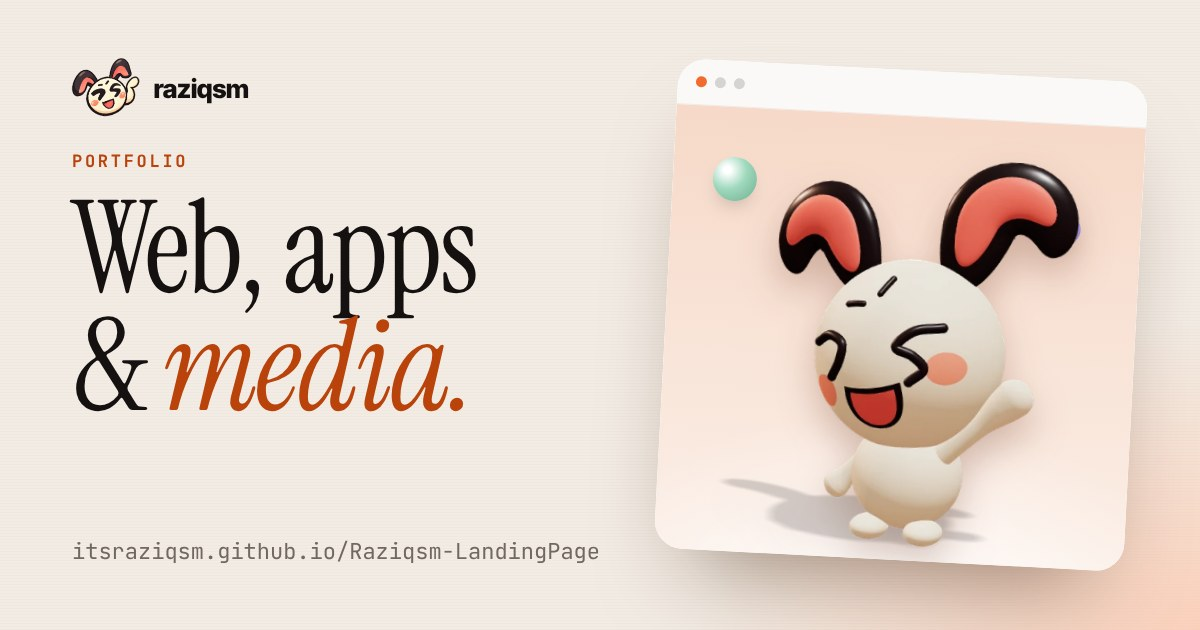
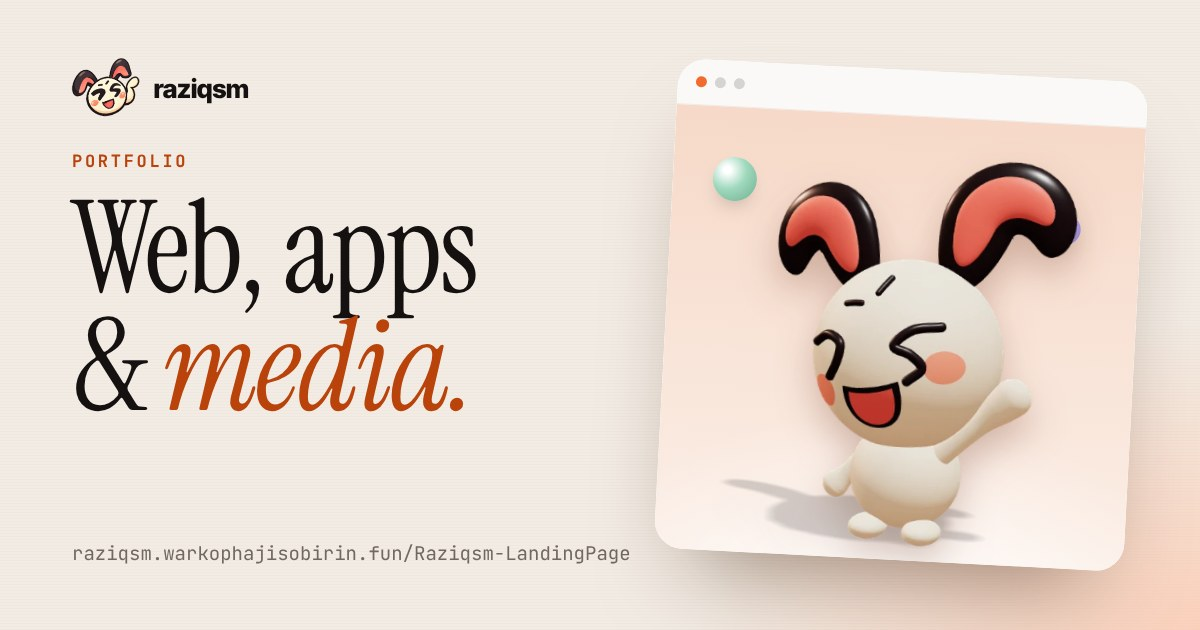
Move to the home-server address; natural blinks
- site is now https://raziqsm.warkophajisobirin.fun (base unchanged):
  canonical, og:url, og:image and hreflang point there instead of the
  archived GitHub Pages site; hero browser bar shows the new host; the
  link-preview image is re-rendered with the new address and the rigged
  Zeebo.
- GitHub Pages deploy workflow removed; the build check now runs on
  every push (main included) and on pull requests into main.
- README: 'Production (home server)' replaces the Pages instructions.
- Blinks: face bones are not axis-aligned (eye_L's local Y points out of
  the face), so scaling local Y squashed depth instead of closing the
  eyes - and the wave's mouth barely opened. Face scales are now given
  in the body frame and mapped to the matching local axis. The blink is
  asymmetric (70 ms close, 40 ms hold, 130 ms open) to a thin line,
  brows dip and cheeks lift a touch; every 2-6 s, sometimes double, and
  on quick head turns. blink() added to the API.

Claude-Session: https://claude.ai/code/session_01NFozG33sJLi3jEXXqYfrsi

diff --git a/src/scripts/zeebo3d.ts b/src/scripts/zeebo3d.ts
@@ -136,10 +136,19 @@ export function mountZeebo(container: HTMLElement, opts: ZeeboOptions) {
     // parent⁻¹ · offset · parent · rest  →  the offset happens around body axes
     b.quaternion.copy(parentQi.get(name)!).multiply(tmpQ).multiply(parentQ.get(name)!).multiply(restQ.get(name)!);
   };
+  // Face bones are not axis-aligned (e.g. eye_L's local Y points *out of the
+  // face*, its vertical is local X), so scales are given in the body frame
+  // (x = across, y = up, z = forward) and routed to whichever local axis is
+  // closest to each body axis. Measured once at load.
+  const scaleMap = new Map<Bone, [number, number, number]>(); // local x/y/z → body axis index
+  /** scale a bone along body axes (x across, y up, z forward) */
   const scaleBone = (name: Bone, sx: number, sy: number, sz: number) => {
     const b = bones.get(name);
     const s = restS.get(name);
-    if (b && s) b.scale.set(s.x * sx, s.y * sy, s.z * sz);
+    if (!b || !s) return;
+    const body = [sx, sy, sz];
+    const m = scaleMap.get(name) ?? [0, 1, 2];
+    b.scale.set(s.x * body[m[0]], s.y * body[m[1]], s.z * body[m[2]]);
   };
   const lift = (name: Bone, dy: number) => {
     const b = bones.get(name);
@@ -153,8 +162,34 @@ export function mountZeebo(container: HTMLElement, opts: ZeeboOptions) {
   const earLag = new THREE.Vector2(); // ears trail the head: a slower copy of `look`
   let happy = 0; // eases to 1 while the pointer is over Zeebo
   let happyTarget = 0;
-  let nextBlink = 2;
+  // blink: fast close, short hold, slower open (a real blink is ~0.25 s, asymmetric)
+  const BLINK_CLOSE = 0.07;
+  const BLINK_HOLD = 0.04;
+  const BLINK_OPEN = 0.13;
+  let nextBlink = 1.6 + Math.random() * 1.5;
   let blinkStart = -1;
+  let lastBlink = -10;
+  let doubleBlink = false;
+  const prevLook = new THREE.Vector2();
+  /** 1 = closed, 0 = open */
+  const blinkAmount = (t: number) => {
+    if (blinkStart < 0) return 0;
+    const p = t - blinkStart;
+    if (p < 0) return 0;
+    if (p < BLINK_CLOSE) {
+      const x = p / BLINK_CLOSE;
+      return x * x; // ease in: the lid accelerates down
+    }
+    if (p < BLINK_CLOSE + BLINK_HOLD) return 1;
+    const x = (p - BLINK_CLOSE - BLINK_HOLD) / BLINK_OPEN;
+    if (x >= 1) return 0;
+    return 1 - (1 - (1 - x) * (1 - x)); // ease out: it slows as it opens
+  };
+  const startBlink = (t: number) => {
+    if (t - lastBlink < 0.35) return; // never mid-blink
+    blinkStart = t;
+    lastBlink = t;
+  };
   let running = true;
   let visible = true;
   let tNow = 0;
@@ -279,20 +314,17 @@ export function mountZeebo(container: HTMLElement, opts: ZeeboOptions) {
     rot("foot_R", ...add(g("foot_R"), -hopH * 2.2, 0, 0));
 
     // face: blink (+ happy squint while waving), brows up, chattering mouth, blush
-    let lid = 1;
-    if (on && blinkStart >= 0) {
-      const p = (t - blinkStart) / 0.16;
-      if (p >= 0 && p <= 1) lid = 1 - s(p * Math.PI) * 0.75;
-    }
-    const squint = lid * (1 - env * 0.25);
-    scaleBone("eye_L", 1, squint, 1);
-    scaleBone("eye_R", 1, squint, 1);
-    const browUp = (env * 0.045 + happy * 0.015) * on;
+    const shut = on ? blinkAmount(t) : 0;
+    const eyeH = (1 - shut * 0.9) * (1 - env * 0.25); // closed = a thin line
+    const eyeW = 1 + shut * 0.05; // a closed lid reads slightly wider
+    scaleBone("eye_L", eyeW, eyeH, 1);
+    scaleBone("eye_R", eyeW, eyeH, 1);
+    const browUp = (env * 0.045 + happy * 0.015) * on - shut * 0.01; // brows dip with the blink
     lift("brow_L", browUp);
     lift("brow_R", browUp);
     const mouth = 1 + (env * (0.3 + s(t * 9) * 0.06) + happy * 0.08) * on;
     scaleBone("mouth", 1 + env * 0.06, mouth, 1);
-    const blush = 1 + (happy * 0.12 + env * 0.15) * on;
+    const blush = 1 + (happy * 0.12 + env * 0.15) * on + shut * 0.03; // cheeks lift a touch
     scaleBone("cheek_L", blush, blush, blush);
     scaleBone("cheek_R", blush, blush, blush);
 
@@ -317,9 +349,22 @@ export function mountZeebo(container: HTMLElement, opts: ZeeboOptions) {
       spin += spinVel;
       spinVel *= Math.pow(0.93, dt * 60);
     }
+    // blinks: every 2–6 s, sometimes twice in a row, and when the head turns fast
     if (t > nextBlink) {
-      blinkStart = t;
-      nextBlink = t + 2.5 + Math.random() * 3 + (Math.random() < 0.2 ? -2.2 : 0); // sometimes a double blink
+      startBlink(t);
+      if (!doubleBlink && Math.random() < 0.18) {
+        doubleBlink = true;
+        nextBlink = t + BLINK_CLOSE + BLINK_HOLD + BLINK_OPEN + 0.12;
+      } else {
+        doubleBlink = false;
+        nextBlink = t + 2 + Math.random() * 4;
+      }
+    }
+    const turnSpeed = look.distanceTo(prevLook) / Math.max(dt, 1e-3);
+    prevLook.copy(look);
+    if (turnSpeed > 2.2 && t - lastBlink > 1.2 && Math.random() < 0.5) {
+      startBlink(t);
+      nextBlink = Math.max(nextBlink, t + 2);
     }
     applyPose(t);
     renderer.render(scene, camera);
@@ -345,6 +390,14 @@ export function mountZeebo(container: HTMLElement, opts: ZeeboOptions) {
       const pq = (b.parent ?? model).getWorldQuaternion(new THREE.Quaternion()).premultiply(modelQi);
       parentQ.set(name, pq);
       parentQi.set(name, pq.clone().invert());
+      // which body axis does each local axis point along?
+      const boneQ = pq.clone().multiply(b.quaternion);
+      const map = [0, 1, 2].map((k) => {
+        const v = new THREE.Vector3(k === 0 ? 1 : 0, k === 1 ? 1 : 0, k === 2 ? 1 : 0).applyQuaternion(boneQ);
+        const a = [Math.abs(v.x), Math.abs(v.y), Math.abs(v.z)];
+        return a.indexOf(Math.max(...a));
+      }) as [number, number, number];
+      scaleMap.set(name, map);
     }
     scene.add(model);
 
@@ -423,6 +476,8 @@ export function mountZeebo(container: HTMLElement, opts: ZeeboOptions) {
     scene,
     /** play the "waving excitedly" animation (2.8 s); calling it mid-wave extends it */
     wave,
+    /** blink once now */
+    blink: () => startBlink(tNow),
     /** draw one frame now (used when rendering stills) */
     render: () => renderer.render(scene, camera),
     destroy() {

diff --git a/README.md b/README.md
@@ -13,16 +13,23 @@ npm run dev
 
 Open http://localhost:4321/Raziqsm-LandingPage/ (Indonesian, default) or http://localhost:4321/Raziqsm-LandingPage/en/ (English)
 
-## Share online (Cloudflare Tunnel)
+## Production (home server)
 
-Serve the production build, not the dev server:
+The live site is https://raziqsm.warkophajisobirin.fun/Raziqsm-LandingPage/ (Indonesian) and `…/en/` (English),
+served from a home server through a Cloudflare Tunnel. On the server, from an up-to-date `main`:
 
 ```bash
-npm run online
+git pull
 ```
 
-This builds the site and serves it on port 4321. Open `https://<your-tunnel-host>/Raziqsm-LandingPage/`.
-Add new tunnel hostnames to `server.allowedHosts` in `astro.config.mjs`.
+```bash
+npm ci && npm run online
+```
+
+`npm run online` builds the site and serves the build (not the dev server) on port 4321, which the tunnel points to.
+The site address lives in `site` (domain) and `base` (`/Raziqsm-LandingPage`) in `astro.config.mjs`; canonical links,
+hreflang and the link-preview image (`public/og.jpg`) are built from them. Tunnel hostnames that may reach the server
+are listed in `server.allowedHosts` in the same file.
 
 ## Edit content
 
@@ -43,15 +50,16 @@ Set `WORK_LAYOUT` in `src/data/portfolio.ts`:
 
 ## Zeebo (mascot)
 
-- `public/zeebo/zeebo.glb`: 3D model (meshopt-compressed), shown interactively in the hero. The head follows the cursor, the arm waves, and Zeebo hops when clicked. Code: `src/scripts/zeebo3d.ts`. three.js is lazy-loaded only for this.
-- `public/zeebo/{wave,hello,cheer,point,peek,think,laptop}.webp`: transparent stills rendered from the model, picked per project with `pose` in `src/data/portfolio.ts`.
-- `public/zeebo/sticker.webp`: flat 2D artwork used for the logo and favicon.
-- New poses are offsets per node (head, ears, arms, tail) in `POSES` inside `zeebo3d.ts`.
+- `public/zeebo/zeebo.glb`: rigged 3D model (29 bones, meshopt-compressed), shown interactively in the hero. Code: `src/scripts/zeebo3d.ts`; three.js is lazy-loaded only for this (on phones only when "Lihat versi 3D" is tapped).
+  - idle: breathing, head follows the cursor, ears and tail sway, natural blinks (fast close, short hold, slower open; also on quick head turns)
+  - "waving excitedly" (2.8 s): plays when Zeebo appears and on every click / tap on its body
+  - hover on Zeebo: happier face; mouse / pen can drag to spin it
+- `public/zeebo/{wave,hello,cheer,point,think,peek,laptop}.webp`: transparent stills rendered from the model, picked per project with `pose` in `src/data/portfolio.ts`. Poses are body-frame bone offsets in `POSES` inside `zeebo3d.ts`.
+- `public/zeebo/sticker.webp` / `sticker-sm.webp`: flat 2D artwork for the logo and favicon.
 
 ## Branches and release
 
-- `main` is production: every push to `main` builds and deploys to GitHub Pages (`.github/workflows/deploy.yml`).
-- Every other branch is development: pushes are built to catch errors, never deployed (`.github/workflows/build-check.yml`).
-- Release = bring a development branch into `main` (merge a pull request, or fast-forward `main`).
-
-One-time setup: **Settings → Pages → Source: GitHub Actions**. The site is served at https://itsraziqsm.github.io/Raziqsm-LandingPage/
+- `main` is production: the home server serves `main` (see "Production").
+- Every other branch is development.
+- `.github/workflows/build-check.yml` builds every push (all branches) and every pull request into `main` to catch errors early. Nothing is deployed from GitHub.
+- Release = bring a development branch into `main` (merge a pull request, or fast-forward `main`), then update the server as in "Production".

diff --git a/PLAN.md b/PLAN.md
@@ -90,8 +90,9 @@ Belum dikerjakan (manfaat kecil): versi kecil gambar pose Zeebo (±28 KB per gam
 
 ## Rilis
 
-- [x] Buat branch `main` dari `claude/zealous-bell-807lwb` (workflow diperbarui: `withastro/action@v6` dengan Node 24, `deploy-pages@v5`).
-- [ ] Aktifkan GitHub Pages (Settings → Pages → Source: GitHub Actions), lalu jalankan ulang workflow "Deploy to GitHub Pages".
+- [x] Buat branch `main` (produksi); branch lain = pengembangan.
+- [x] Website tayang dari server rumah lewat Cloudflare Tunnel: https://raziqsm.warkophajisobirin.fun/Raziqsm-LandingPage/ (GitHub Pages diarsipkan; workflow deploy-nya dihapus, tinggal pemeriksaan build).
+- [x] Alamat situs, canonical, hreflang, dan gambar pratinjau link memakai alamat tetap itu.
 - [ ] Jadikan `main` sebagai default branch (Settings → General → Default branch).
 - [ ] Cek di perangkat asli (HP Android, iPhone, laptop) terang dan gelap.
 
